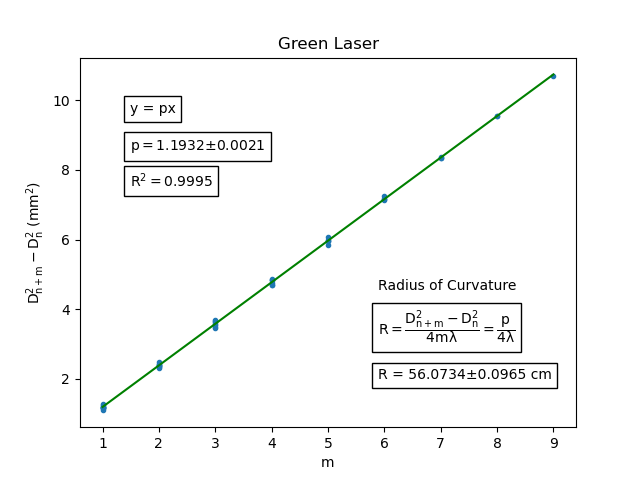
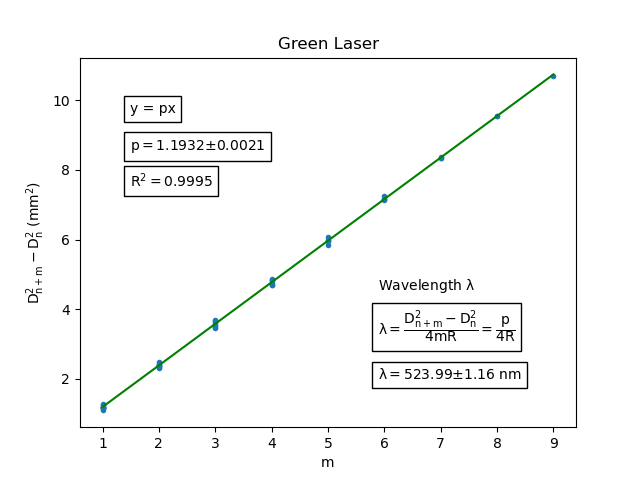
Update Green Laser Graph to calculate Wavelength

Changed region(s): [[0.5625, 0.6562, 0.875, 0.8125], [0.5938, 0.5625, 0.8125, 0.6875]]

diff --git a/PHY 221/Newton's Rings/NR Green Laser Graph.py b/PHY 221/Newton's Rings/NR Green Laser Graph.py
@@ -3,7 +3,7 @@ import matplotlib.pyplot as plt
 from scipy.optimize import curve_fit
 from uncertainties import ufloat
 
-lambda_SL = 589*1E-9        # Sodium Lamp Wavelength
+lambda_SL = 589.2*1E-9        # Sodium Lamp Wavelength
 lambda_GL = 532*1E-9        # Green Laser Wavelength
 
 filename = "Green Laser"
@@ -78,11 +78,12 @@ p_error_text = "{:.4f}".format(p_error)
 print(f"p_error = {p_error} = {p_error_text}")
 
 p = ufloat(p, p_error)
-R = p / (4 * lambda_GL * 1E4)
+R_SL = ufloat(56.9304, 0.0797)  # cm
+lambda_calculated = (p * 1E5) / (4 * R_SL)
 
-print("R = {:.3uP}".format(R))
+print("Lambda of GL = {:.3uP}".format(lambda_calculated))
 
-R_text = "{:.3uP}".format(R)
+lambda_text = "{:.3uP}".format(lambda_calculated)
 
 # The Plots
 plt.plot(x, y, ".")
@@ -101,10 +102,10 @@ plt.annotate(r'$\sf p = ${}$\pm${}'.format(p_text, p_error_text), xy = (0.1, 0.7
 plt.annotate(r'$\sf R^2 = ${}'.format(r_squared_text),
              xy = (0.1, 0.65), xycoords = "axes fraction", bbox = bbox_props)
 
-plt.annotate("Radius of Curvature", xy = (0.6, 0.37), xycoords = "axes fraction")
-plt.annotate(r'$\sf R = \dfrac{D_{n+m}^2-D_{n}^2}{4m\lambda} = \dfrac{p}{4\lambda}$', 
+plt.annotate(r"$\sf Wavelength\ \lambda$", xy = (0.6, 0.37), xycoords = "axes fraction")
+plt.annotate(r'$\sf \lambda = \dfrac{D_{n+m}^2-D_{n}^2}{4mR} = \dfrac{p}{4R}$', 
              xy = (0.6, 0.25), xycoords = "axes fraction", bbox = bbox_props)
-plt.annotate(f"R = {R_text} cm", xy = (0.6, 0.13), xycoords = "axes fraction", 
+plt.annotate(r"$\sf \lambda = ${} nm".format(lambda_text), xy = (0.6, 0.13), xycoords = "axes fraction", 
              bbox = bbox_props)
 
 plt.show()
